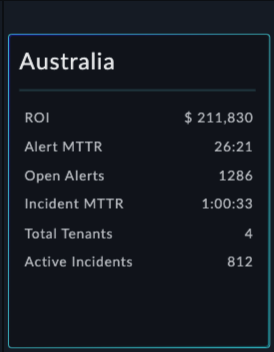
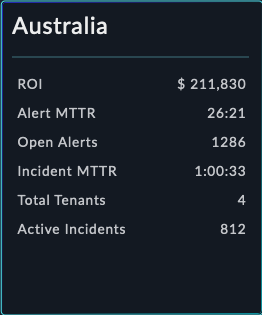
Made changes to the document - Changed screenshots - Changed the document flow in-line with the new screenshots - Added screenshots after each step in usage - Explained the object key to render field. Used multiple scenarios and added screenshots for each

diff --git a/docs/usage.md b/docs/usage.md
@@ -3,22 +3,12 @@
 
 # Usage
 
-To use this widget users needs to provide a JSON in a certain format for the widget to render data. This JSON data must be in a field of a record in a module.
+The Record Summary widget renders an information card for a record that contains JSON in a certain format. This JSON data must be in a module's record that has a field of type JSON. When multiple records meet the filter criteria, this widget renders an information card for each record.
 
-This widget can also *Broadcast* an event. This option can be enabled in widget configuration's *Advanced Settings*. 
-
-This widget represents an individual record. If, however, multiple records meet the filter criteria, this widget creates a new card for each record.
+The *Broadcast* feature in the widget configuration's [*Advanced Settings*](#advanced-settings) sends an event to the listening widgets like <em>Funnel Chart</em> and <em>Top X</em>. These widgets, which must be present on the same dashboard as the *Record Summary Card*, can be set up so that a click on a Record Summary card updates their displayed information.
 
 <table>
-    <td><strong>NOTE</strong></td>
-    <td>For the widget to create multiple cards, each record's JSON field must contain data in a very specific format.</td>
-</table>
-
-If the broadcast event is turned on, the widget will then broadcast an event passing on the record IRI(Id) to the listening widgets.
-The widgets listening to the on-click event should be present on the dashboard as this widget.
-
-<table>
-    <td><strong>IMPORTANT</strong></td>
+    <th>IMPORTANT</th>
     <td>The <code>JSON</code> data to be rendered must have the following:
         <ul>
             <li><code>data</code> object containing data in <em>key-value</em> format</li>
@@ -26,6 +16,22 @@ The widgets listening to the on-click event should be present on the dashboard a
         </ul>
     </td>
 </table>
+
+### JSON Data Format
+
+```JSON
+{
+    "recordSummaryCard": {
+        "title": "SomeTitleForTheCard",
+        "data": {
+            "SomeMetric1": "SomeValue1",
+            "SomeMetric2": "SomeValue2",
+            "SomeMetric3": "SomeValue3",
+            "SomeMetric4": "SomeValue4"
+            }
+    }
+}
+```
 
 ## Record Summary Card
 
@@ -35,19 +41,19 @@ The widgets listening to the on-click event should be present on the dashboard a
 
 3. Specify the title of this visual representation in the **Title** field.
 
-    ![Edit View](./res/edit_view.png)
+    ![Edit View highlighted title field](./res/edit_view_title.png)
 
 4. Select the module, whose records are to be displayed, in the **Select Data Source** field. The drop-down lists only those modules that support JSON data fields. For details on editing and creating modules, refer to the *Module Editor* section of the FortiSOAR *Administration Guide*, [here](https://docs.fortinet.com/document/fortisoar/7.4.1/administration-guide/97786/application-editor#Module_Editor).
 
+    ![Edit View highlighted data source field](./res/edit_view_select_data_source.png)
+
 5. Select the field, whose data is to be displayed, in the **Select Field** field. The drop-down lists fields of type `JSON`. For details on editing and creating fields, refer to the *Module Editor* section of the FortiSOAR *Administration Guide*, [here](https://docs.fortinet.com/document/fortisoar/7.4.1/administration-guide/97786/application-editor#Module_Editor).
 
-6. Define the filter criteria using which to filter the data to be rendered by this widget.
+    ![Edit View highlighted select field](./res/edit_view_select_field.png)
 
-    This widget renders multiple cards corresponding to each record meeting the following criteria:
+6. Define the filter criteria using which to filter the data to be rendered by this widget. If multiple records meet the defined filter conditions, each record with JSON data in correct format, is rendered in its separate card of its own.
 
-    - Each record must meet the defined filter conditions
-    - Each record has data in the field specified in the previous step
-    - Each record has JSON data in correct format
+    ![Edit view highlighted filter conditions section](./res/edit_view_filter_conditions.png)
 
     <table>
         <thead>
@@ -57,36 +63,40 @@ The widgets listening to the on-click event should be present on the dashboard a
             <td>Filters can be applied for tasks like displaying the widget with only those asset records that meet the following criteria:
                 <ul>
                     <li><em>Site Type</em> is <code>Master</code></li>
-                    <!-- <li>State is <em>Active</em></li> -->
                 </ul>
             </td>
         </tbody>
     </table>
 
-7. Specify the JSON `key` whose `value` is to be rendered in the **Object key to render** field.
+7. Specify the JSON `key` whose `value` is to be rendered in the **Object key to render** field. The records identified through the filter conditions, in the previous step, must have the object key that contains data to be rendered.
+
+    In the following *Example* block, the *Object key to render* is `recordSummaryCard`.
 
 <table>
     <thead>
-        <th>Example</th>
+        <th colspan="3">Example</th>
     </thead>
     <tbody>
-        <td>Consider the following JSON data in one of the record's JSON field:
-            <pre>"recordSummaryCard": {
-            "data": {
-            "ROI":"$37,707",
-            "MTTD": "1 min",
-            "MTTR": "2 mins",
-            "Node Status": "Active",
-            "Total Tenants":5,
-            "Active Incidents": 8
-            },
-            "title": "Australia"
-          }</pre>
-            <p>The following screenshot shows the Record Summary Card in action with this JSON data.</p>
-            <p><img src="./res/australiaCard.png" alt="Record Summary Tile"></p>
-            <p>Consider the following JSON data in each of the record's JSON field:</p>
-<ul>
-    <li>
+        <tr>
+            <td colspan="3">Consider the following JSON data in one of the record's JSON field:
+                <pre>"recordSummaryCard": {
+                    "data": {
+                        "ROI": "$ 211,830",
+                        "Alert MTTR": "26:21",
+                        "Open Alerts": 1286,
+                        "Incident MTTR": "1:00:33",
+                        "Total Tenants": 4,
+                        "Active Incidents": 812
+                    },
+                    "title": "Australia"
+                }
+            </pre>
+                <p>The following screenshot shows the Record Summary Card in action with this JSON data.</p>
+                <p><img src="./res/australiaCard.png" alt="Record Summary Tile"></p>
+                <p>Consider the following JSON data in each of the record's JSON field:</p>
+        </tr>
+<tr>
+    <td>
         <pre>"recordSummaryCard": {
             "data": {
             "ROI":"$37,707",
@@ -98,8 +108,8 @@ The widgets listening to the on-click event should be present on the dashboard a
             },
             "title": "Australia"
           }</pre>
-    </li>
-    <li>
+    </td>
+    <td>
         <pre>"recordSummaryCard": {
             "data": {
             "ROI":"$37,707",
@@ -111,8 +121,8 @@ The widgets listening to the on-click event should be present on the dashboard a
             },
             "title": "India"
           }</pre>
-    </li>
-    <li>
+    </td>
+    <td>
         <pre>"recordSummaryCard": {
             "data": {
             "ROI":"$37,707",
@@ -124,30 +134,53 @@ The widgets listening to the on-click event should be present on the dashboard a
             },
             "title": "Ireland"
           }</pre>
-    </li>
-</ul>
-            <p>The following screenshot shows the Record Summary Card in action with this JSON data.</p>
-            <p><img src="./res/allCards.png" alt="Record Summary Tile"></p>
-        </td>
+    </td>
+</tr>
     </tbody>
 </table>
 
+The following screenshot shows the Record Summary Card in action with this JSON data.
+
+![Record Summary Cards](./res/allCards.png)
+
 ### Advanced Settings
 
-These steps create an event to broadcast which can then be listened to by listener widgets like *Funnel Chart* widget.
+Under **Advanced Settings**, this widget can be configured to broadcast events *to listener widgets in the same dashboard*. An example of a listening widget is the **Top X** widget.
 
-1. Enable to broadcast an event.
-
-2. Specify a name of the event for the widget to broadcast.
-
-3. Enter a name of the event to broadcast.
-
-    The listener widgets like *Funnel Chart* should be listening to exactly this event name.
+Make a note of the event name being broadcasted by the widget. Use the exact event name when configuring *Top X* and *Funnel Chart*'s event listener.
 
 <table>
     <tr>
         <th>IMPORTANT</th>
-        <td><strong>Record Summary Card</strong> is a broadcasting widget. It broadcasts a record IRI listened to by widgets like <em>Funnel Chart</em> and <em>Top X</em> widgets. However, these widgets cannot render data until the record IRI they are listening to also contains data in their compatible format.</td>
+        <td>The event listening is triggered when you click a <em>Record Summary Card</em>. The <em>Top X</em> and <em>Funnel Chart</em> widgets look for compatible JSON data in the same record that contains data for the <em>Record Summary Card</em> widget.</td>
+    </tr>
+</table>
+
+___
+The *Record Summary Card* widget can render and broadcast multiple JSON keys as cards. With the selection of a card the broadcasted event changes. Event listener widgets, such as *Top X*, can listen to these events and render the JSON data broadcasted by the selected card. This is helpful when managing multiple sites with varied data. Clicking a site card can generate targeted data for that site.
+
+Following image is a side-by-side comparison of how selecting a different card, updates the associated data:
+
+|![](./res/json-data-broadcast-event-1.png)|![](./res/json-data-broadcast-event-2.png)|![](./res/json-data-broadcast-event-3.png)|
+|:-|:-|:-|
+|Selected card *Australia*|Selected card *India*|Selected card *Ireland*|
+___
+
+
+These steps create an event to broadcast which can then be received by event listener widgets like *Funnel Chart* and *Top X*.
+
+1. Click to expand **Advanced Settings**.
+
+2. Enable the **Broadcast Event** toggle to broadcast an event.
+
+3. Specify a name of the event, **Event Name** field, for the widget to broadcast.
+
+    The listener widgets like *Top X* and *Funnel Chart* should be listening to exactly this event name.
+
+<table>
+    <tr>
+        <th>IMPORTANT</th>
+        <td><strong>Record Summary Card</strong> is a broadcasting widget. It broadcasts a record IRI listened to by widgets like <em>Funnel Chart</em> and <em>Top X</em>. However, these widgets cannot render data until the record IRI they are listening to also contains data in their compatible format.</td>
     </tr>
 </table>
 

diff --git a/docs/setup.md b/docs/setup.md
@@ -11,15 +11,16 @@
 
 The following sections lay out information necessary to customize this widget.
 
-| Fields                                  | Description                                                                                                                         |
-|-----------------------------------------|-------------------------------------------------------------------------------------------------------------------------------------|
-| Title                                   | Specify a title for the record summary card.                                                                                        |
-| Data Source                             | Select the module containing JSON data.                                                                                             |
-| Select Field                            | Select a field from the module that contains the data in JSON format.                                                               |
-| Filter  Condition                       | Filter records containing the JSON data. Filter records containing the JSON data. If multiple records meet the filter criteria, the widget creates multiple cards.|
-| Enter the key of object to be rendered. | Leave blank if the JSON field's record has data in the required format, else specify the key containing the relevant data.          |
+| Fields               | Description                                                                                                                                                        |
+|----------------------|--------------------------------------------------------------------------------------------------------------------------------------------------------------------|
+| Title                | Specify a title for the record summary card.                                                                                                                       |
+| Data Source          | Select the module containing JSON data.                                                                                                                            |
+| Select Field         | Select a field from the module that contains the data in JSON format.                                                                                              |
+| Filter  Condition    | Filter records containing the JSON data. Filter records containing the JSON data. If multiple records meet the filter criteria, the widget creates multiple cards. |
+| Object Key to Render | Leave blank if the JSON field's record has data in the required format, else specify the key containing the relevant data.                                         |
 
-**Advanced Settings**
+| Advanced Settings |
+|:------------------|
 
 | Broadcast Event       | Enable to broadcast an event. Once enabled, specify a name of the event for the widget to broadcast.                                                       |
 | Event Name            | Enter a name of the event to broadcast. The listener widgets like *Funnel Chart* should be listening to exactly this event name. |
